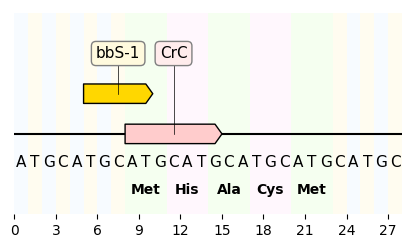
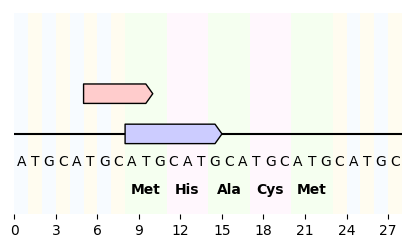
Changes in README and examples

diff --git a/examples/sequence_and_translation.py b/examples/sequence_and_translation.py
@@ -1,11 +1,8 @@
-from dna_features_viewer import (GraphicFeature, GraphicRecord,
-                                 CircularGraphicRecord)
+from dna_features_viewer import GraphicFeature, GraphicRecord
 
 record = GraphicRecord(sequence="ATGCATGCATGCATGCATGCATGCATGC", features=[
-    GraphicFeature(start=5, end=10, strand=+1, color="#ffd700",
-                   label="bbS-1"),
-    GraphicFeature(start=8, end=15, strand=+1, color="#ffcccc",
-                   label="CrC")
+    GraphicFeature(start=5, end=10, strand=+1, color='#ffcccc'),
+    GraphicFeature(start=8, end=15, strand=+1, color='#ccccff')
 ])
 
 ax, _ = record.plot(figure_width=5)

diff --git a/examples/overview_and_detail.py b/examples/overview_and_detail.py
@@ -1,5 +1,4 @@
-from dna_features_viewer import (GraphicFeature, GraphicRecord,
-                                 CircularGraphicRecord)
+from dna_features_viewer import GraphicFeature, GraphicRecord
 import matplotlib.pyplot as plt
 
 record = GraphicRecord(sequence=250*"ATGC", features=[

diff --git a/README.rst b/README.rst
@@ -78,20 +78,73 @@ In this first example we define features "by hand":
     record = GraphicRecord(sequence_length=1000, features=features)
     record.plot(figure_width=5)
 
-.. figure:: https://raw.githubusercontent.com/Edinburgh-Genome-Foundry/DnaFeaturesViewer/master/examples/by_hand.png
-    :align: center
+.. raw:: html
+
+    <p align="center">
+    <img src="https://raw.githubusercontent.com/Edinburgh-Genome-Foundry/DnaFeaturesViewer/master/examples/by_hand.png" width="500">
+    </p>
 
 
 If we replace `GraphicRecord` by `CircularGraphicRecord` in the code above we obtain
 a circular plot of the construct:
 
-.. figure:: https://raw.githubusercontent.com/Edinburgh-Genome-Foundry/DnaFeaturesViewer/master/examples/by_hand_circular.png
-    :align: center
+.. raw:: html
+
+    <p align="center">
+    <img src="https://raw.githubusercontent.com/Edinburgh-Genome-Foundry/DnaFeaturesViewer/master/examples/by_hand_circular.png" width="443">
+    </p>
 
 It is also possible to generate interactive (browser-based) plots by using ``plot_with_bokeh`` instead of ``plot``:
 
-.. figure:: https://raw.githubusercontent.com/Edinburgh-Genome-Foundry/DnaFeaturesViewer/master/examples/plot_with_bokeh.png
-    :align: center
+.. raw:: html
+
+    <p align="center">
+    <img src="https://raw.githubusercontent.com/Edinburgh-Genome-Foundry/DnaFeaturesViewer/master/examples/plot_with_bokeh.png" width="800">
+    </p>
+
+Nucleotide sequences, translations, and cropping
+~~~~~~~~~~~~~~~~~~~~~~~~~~~~~~~~~~~~~~~~~~~~~~~~
+
+DNA features viewer allows to plot nucleotide or amino acid sequences under
+the record plot:
+
+.. code:: python
+
+    from dna_features_viewer import GraphicFeature, GraphicRecord
+
+    sequence = "ATGCATGCATGCATGCATGCATGCATGC"
+    record = GraphicRecord(sequence, features=[
+        GraphicFeature(start=5, end=10, strand=+1, color='#ffcccc'),
+        GraphicFeature(start=8, end=15, strand=+1, color='#ccccff')
+    ])
+
+    ax, _ = record.plot(figure_width=5)
+    record.plot_sequence(ax)
+    record.plot_translation(ax, (8, 23), fontdict={'weight': 'bold'})
+    ax.figure.savefig('sequence_and_translation.png', bbox_inches='tight')
+
+.. raw:: html
+
+    <p align="center">
+    <img src="https://raw.githubusercontent.com/Edinburgh-Genome-Foundry/DnaFeaturesViewer/master/examples/sequence_and_translation.png" width="415">
+    </p>
+
+This enables for instance to plot an overview of a sequence along with a detailed detail of a sequence subsegment (`full code <https://github.com/Edinburgh-Genome-Foundry/DnaFeaturesViewer/blob/master/examples/overview_and_detail.py>`_)
+
+.. code:: python
+
+    ...
+    record.plot(ax=ax1)
+    cropped_record = record.crop((zoom_start, zoom_end))
+    cropped_record.plot(ax=ax2)
+    cropped_record.plot_sequence(ax=ax2)
+    cropped_record.plot_translation(ax=ax2, location=(408, 423))
+
+.. raw:: html
+
+    <p align="center">
+    <img src="https://raw.githubusercontent.com/Edinburgh-Genome-Foundry/DnaFeaturesViewer/master/examples/overview_and_detail.png" width="900">
+    </p>
 
 
 Reading the features from a GenBank file
@@ -105,8 +158,11 @@ DnaFeaturesViewer plays nice with BioPython. As a result it is super easy to plo
     graphic_record = BiopythonTranslator().translate_record("my_sequence.gb")
     ax, _ = graphic_record.plot(figure_width=10)
 
-.. figure:: https://raw.githubusercontent.com/Edinburgh-Genome-Foundry/DnaFeaturesViewer/master/examples/from_genbank.png
-    :align: center
+.. raw:: html
+
+    <p align="center">
+    <img src="https://raw.githubusercontent.com/Edinburgh-Genome-Foundry/DnaFeaturesViewer/master/examples/from_genbank.png" width="900">
+    </p>
 
 The class ``BiopythonTranslator`` determines how the genbank information is transformed into graphical features.
 It enables to chose which categories of features to plot, the color of the different features.
@@ -146,7 +202,14 @@ other sequences statistics, such as the local GC content:
     # Resize the figure
     fig.savefig("with_plot.png")
 
-.. figure:: https://raw.githubusercontent.com/Edinburgh-Genome-Foundry/DnaFeaturesViewer/master/examples/with_plot.png
+
+.. raw:: html
+
+    <p align="center">
+    <img src="https://raw.githubusercontent.com/Edinburgh-Genome-Foundry/DnaFeaturesViewer/master/examples/with_plot.png" width="800">
+    </p>
+
+.. figure::
     :align: center
 
 Custom biopython translators
